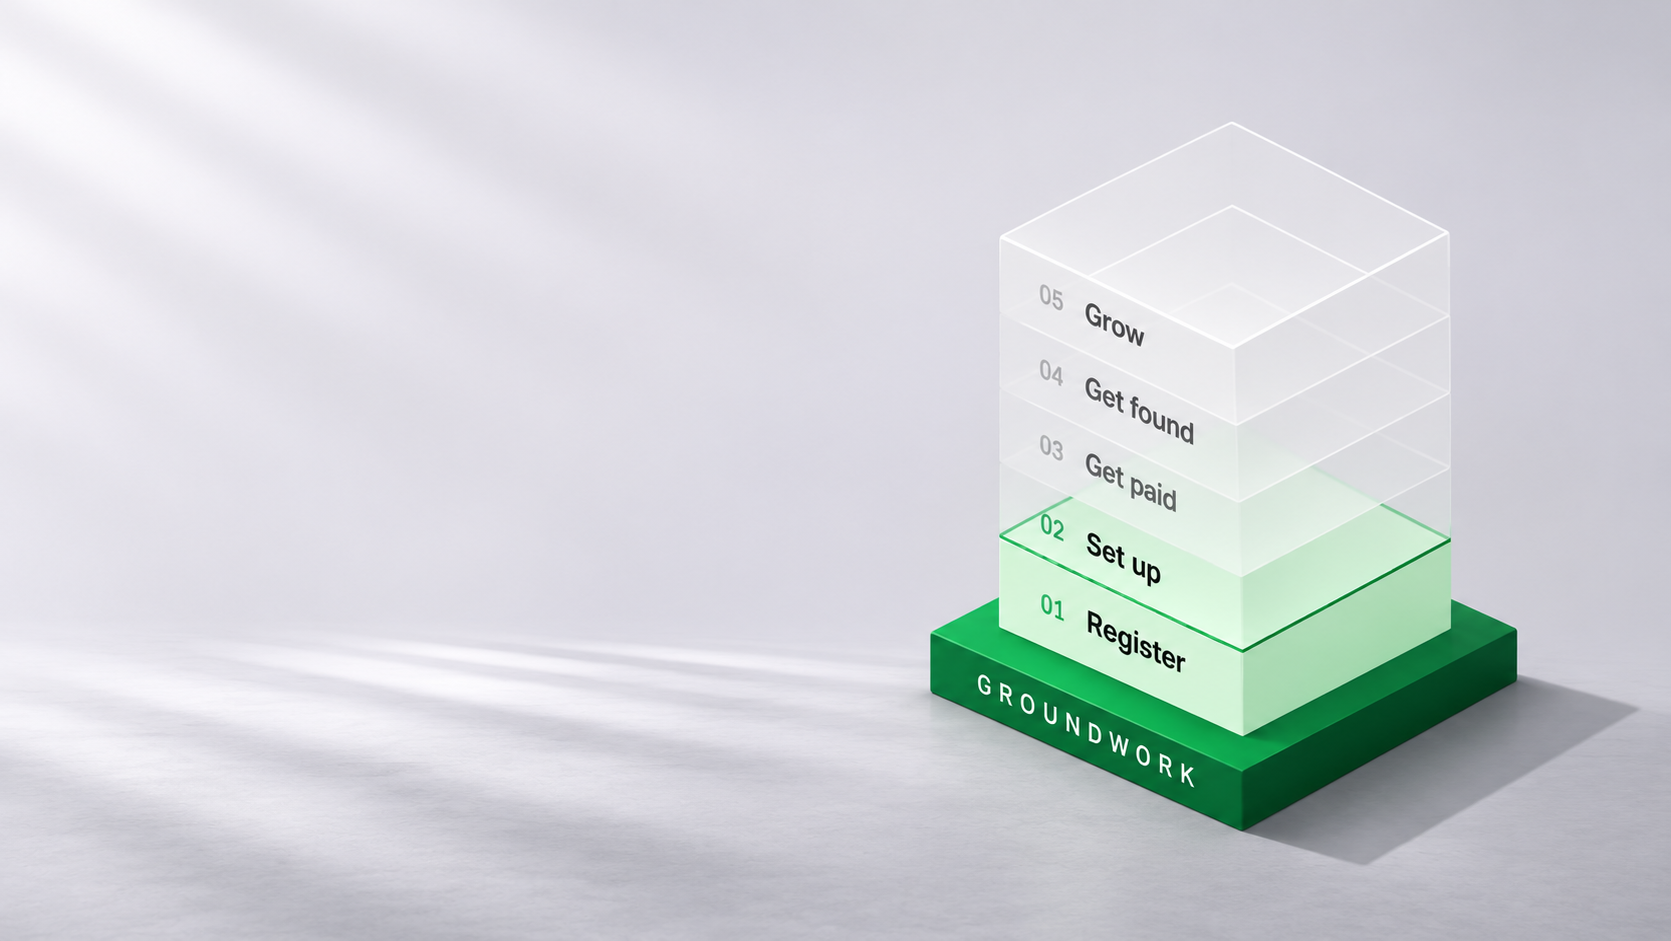
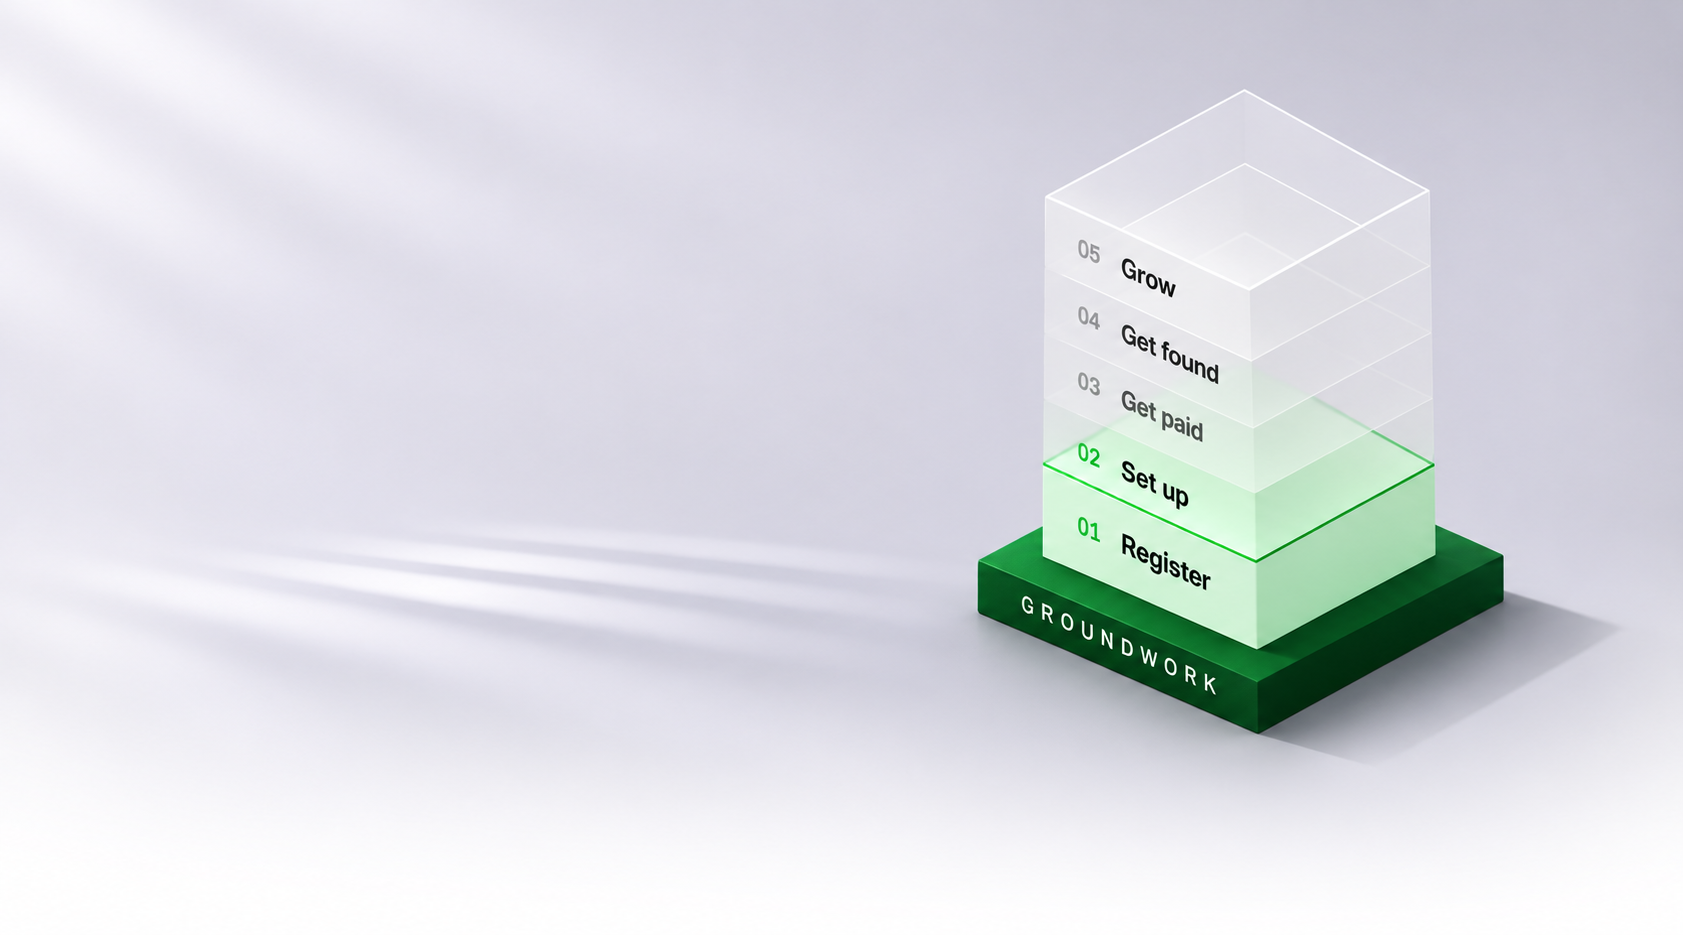
Update Hero and StagePage components for improved responsiveness; adjust layout breakpoints and styles for better visual consistency across devices. Replace hero image with a new version for enhanced quality.

diff --git a/components/Hero.tsx b/components/Hero.tsx
@@ -102,7 +102,7 @@ export function Hero() {
     <section
       id="top"
       ref={sectionRef}
-      className="hero relative flex flex-col overflow-hidden min-[700px]:block"
+      className="hero relative flex flex-col overflow-hidden min-[1024px]:block"
       style={
         {
           background: "#ffffff",
@@ -111,7 +111,7 @@ export function Hero() {
     >
       <div
         ref={stageRef}
-        className="hero-stage pointer-events-none relative z-0 order-2 aspect-[5/4] w-full min-[700px]:absolute min-[700px]:inset-0 min-[700px]:aspect-auto"
+        className="hero-stage pointer-events-none relative z-0 order-2 aspect-[5/4] w-full min-[700px]:aspect-[16/11] min-[1024px]:absolute min-[1024px]:inset-0 min-[1024px]:aspect-auto"
         style={{ background: "var(--hero-studio-mid)" }}
       >
         <div ref={imageWrapRef} className="hero-laptop-wrap absolute inset-0">
@@ -121,19 +121,19 @@ export function Hero() {
             fill
             priority
             quality={85}
-            sizes="(max-width: 699px) 100vw, (max-width: 1023px) 100vw, 100vw"
-            className="hero-laptop-img object-cover object-[82%_40%] min-[700px]:object-[78%_42%] min-[1024px]:object-[72%_40%]"
+            sizes="(max-width: 1023px) 100vw, 100vw"
+            className="hero-laptop-img object-cover object-[82%_40%] min-[700px]:object-[75%_42%] min-[1024px]:object-[72%_40%]"
           />
         </div>
       </div>
 
       <div
-        className="hero-fade-bottom pointer-events-none absolute inset-x-0 bottom-0 z-[1] h-16 min-[700px]:h-[100px] min-[1024px]:h-[120px]"
+        className="hero-fade-bottom pointer-events-none absolute inset-x-0 bottom-0 z-[1] h-16 min-[1024px]:h-[120px]"
         aria-hidden="true"
       />
 
-      <div className="relative z-[2] order-1 mx-auto flex w-full max-w-[1240px] flex-1 flex-col justify-center px-6 pb-10 pt-[6.75rem] min-[700px]:min-h-[860px] min-[700px]:pt-[5.75rem] min-[700px]:pb-36 desk:px-8 desk:pb-44 min-[1024px]:min-h-[1000px]">
-        <div className="flex max-w-[480px] min-w-0 flex-col gap-[22px] min-[700px]:-translate-y-7 min-[700px]:gap-[26px]">
+      <div className="relative z-[2] order-1 mx-auto flex w-full max-w-[1240px] flex-1 flex-col justify-center px-6 pb-10 pt-[6.75rem] desk:px-8 min-[1024px]:min-h-[1000px] min-[1024px]:pt-[5.75rem] min-[1024px]:pb-44">
+        <div className="flex max-w-[480px] min-w-0 flex-col gap-[22px] min-[1024px]:-translate-y-7 min-[1024px]:gap-[26px]">
           <h1 className="hero-title m-0 text-[clamp(2rem,6.5vw,3.875rem)] leading-[1.02] font-medium tracking-[-0.035em] text-ink">
             Start your business.
             <br />

diff --git a/components/stage/StagePage.tsx b/components/stage/StagePage.tsx
@@ -67,21 +67,23 @@ export function StagePage({ stage }: { stage: StageContent }) {
       {heroImage ? (
         <div className="relative overflow-hidden bg-[#F2F2F0]">
           <SiteNav overlay />
-          <section className="relative min-h-[640px] desk:min-h-[720px]">
-            <Image
-              src={heroImage}
-              alt=""
-              fill
-              priority
-              quality={90}
-              sizes="100vw"
-              className="object-cover object-[78%_center] tab:object-[72%_center] desk:object-right"
-            />
-            <div
-              className="pointer-events-none absolute inset-x-0 bottom-0 z-[1] h-24 bg-gradient-to-b from-transparent to-white"
-              aria-hidden
-            />
-            <div className="relative z-[2] mx-auto flex max-w-[1200px] flex-col justify-center gap-6 px-6 pt-[7.5rem] pb-16 desk:min-h-[720px] desk:px-8 desk:pt-[6.5rem] desk:pb-20">
+          <section className="relative flex flex-col min-[1024px]:block min-[1024px]:min-h-[720px]">
+            <div className="relative z-0 order-2 aspect-[16/10] w-full min-[1024px]:absolute min-[1024px]:inset-0 min-[1024px]:aspect-auto">
+              <Image
+                src={heroImage}
+                alt=""
+                fill
+                priority
+                quality={90}
+                sizes="100vw"
+                className="object-cover object-[78%_center] min-[1024px]:object-right"
+              />
+              <div
+                className="pointer-events-none absolute inset-x-0 bottom-0 h-16 bg-gradient-to-b from-transparent to-white min-[1024px]:h-24"
+                aria-hidden
+              />
+            </div>
+            <div className="relative z-[2] order-1 mx-auto flex w-full max-w-[1200px] flex-col justify-center gap-6 px-6 pt-[7.5rem] pb-10 min-[1024px]:min-h-[720px] min-[1024px]:px-8 min-[1024px]:pt-[6.5rem] min-[1024px]:pb-20">
               <StageBreadcrumb title={stage.shortTitle} />
               <StageHeroCopy stage={stage} />
             </div>
